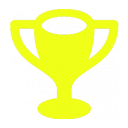
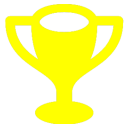
Updated trophy image

Changed region(s): [[0.0312, 0.0312, 0.9688, 0.9688]]

diff --git a/2019/index.html b/2019/index.html
@@ -5,7 +5,7 @@
     <meta property="og:title" content="Golfnut Ryder Cup 2019" />
     <meta property="og:type" content="website" />
     <meta property="og:url" content="https://soliddynamics.github.io/GolfNutsRyderCup/2019/"/>
-    <meta property="og:image" content="https://soliddynamics.github.io/GolfNutsRyderCup/images/trophy-128.png" />
+    <meta property="og:image" content="https://soliddynamics.github.io/GolfNutsRyderCup/images/Trophy-128.png" />
     <meta name="description" content="Vic's Blues take on Joe's Reds in the 2019 instalment of the Golfnut Ryder Cup" />
     <link rel="stylesheet" href="../bootstrap.css" />
     <link href="GolfNuts.css" rel="stylesheet" />
